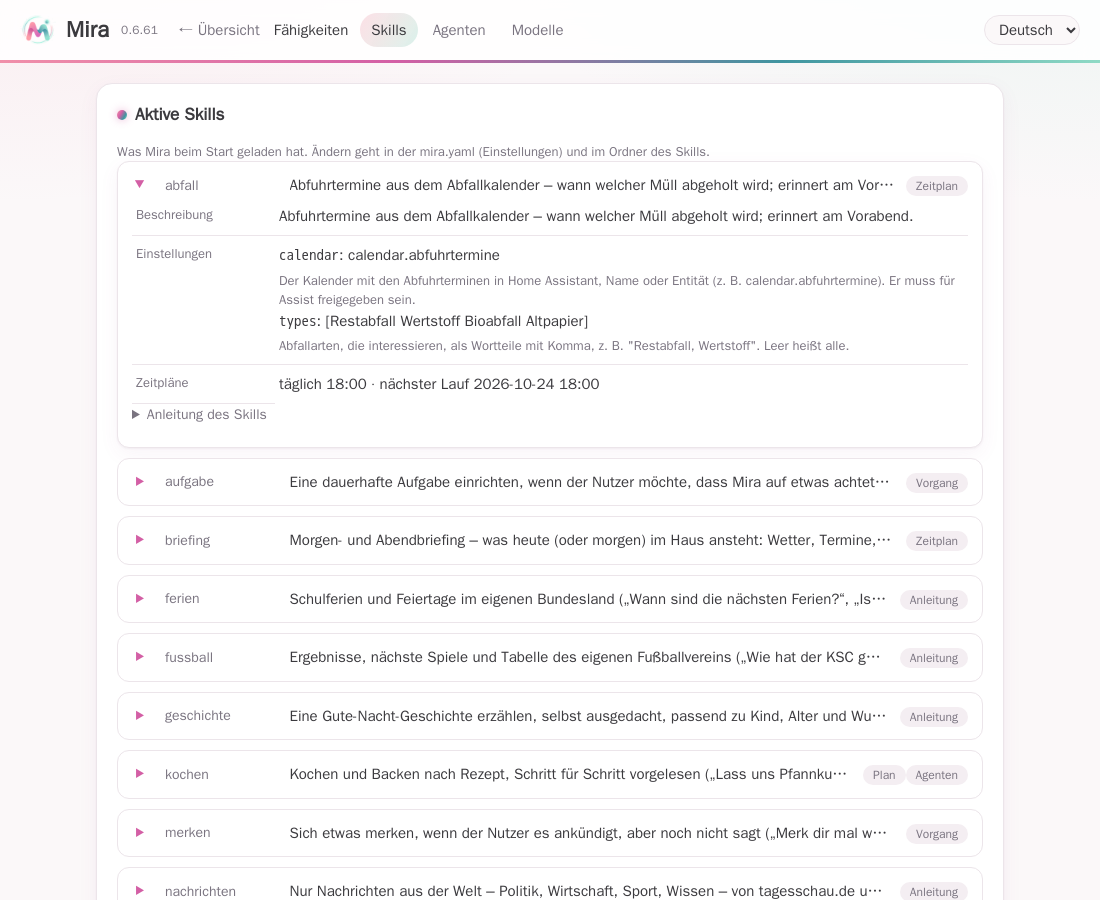
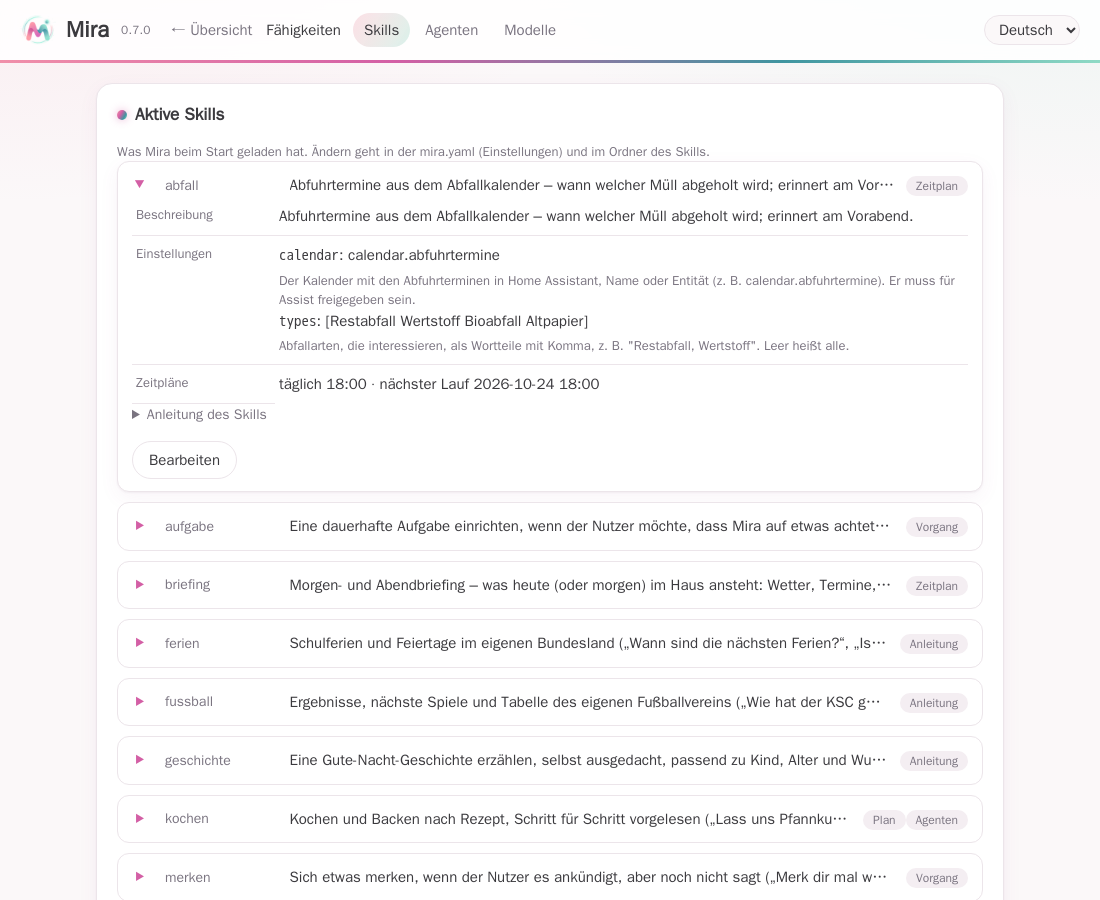
0.7.0: a model beside the integration's main; guide pictures with editing
mira.yaml may name models without main when the integration sets main up
(MO-02 relaxed): the other models load, and without the integration's
model Mira waits for the setup and says main is missing. The page's "New
model" now works for a setup made in Home Assistant, and refuses only
when there is no main anywhere. The hints on the Models and Skills pages
say that both can be changed there; the guide has new pictures with the
edit buttons and the edit dialog.

From this release on, versions follow semantic versioning: 0.7.0 brings
new features and a changed mira.yaml (skills as entries).

diff --git a/internal/ui/index.html b/internal/ui/index.html
@@ -406,7 +406,7 @@ const I18N = {
   "tab_skills": "Skills",
   "tab_models": "Modelle",
   "models_title": "Modelle",
-  "models_hint": "Die Sprachmodelle, die Mira nutzt, wie sie eingestellt sind und wer sie nimmt. Ändern geht in der mira.yaml unter models; das Hauptmodell kann auch aus der Einrichtung in Home Assistant kommen.",
+  "models_hint": "Die Sprachmodelle, die Mira nutzt, wie sie eingestellt sind und wer sie nimmt. Ändern geht hier mit „Bearbeiten“ oder in der mira.yaml unter models; das Hauptmodell kann auch aus der Einrichtung in Home Assistant kommen.",
   "mod_endpoint": "Adresse", "mod_model": "Modell beim Anbieter", "mod_token": "Token",
   "mod_token_set": "gesetzt", "mod_token_unset": "keiner",
   "mod_privacy": "Datenschutz", "mod_parallel": "Anfragen gleichzeitig", "mod_fallback": "Ersatz bei Fehlern",
@@ -477,7 +477,7 @@ const I18N = {
   "home_problems": n => n === 1 ? "1 Skill nicht gestartet" : `${n} Skills nicht gestartet`,
   "home_available": n => n === 1 ? "1 weiterer verfügbar" : `${n} weitere verfügbar`,
   "cat_active": "Aktive Skills",
-  "cat_skills_hint": "Was Mira beim Start geladen hat. Ändern geht in der mira.yaml (Einstellungen) und im Ordner des Skills.",
+  "cat_skills_hint": "Was Mira beim Start geladen hat. Ändern geht hier mit „Bearbeiten“, in der mira.yaml oder im Ordner des Skills.",
   "cat_problem": "Nicht gestartet",
   "cat_available": "Verfügbar",
   "cat_available_hint": "Diese Skills liegen im Skill-Ordner, sind aber nicht eingeschaltet. Einschalten: mit „Einschalten“ hier oder in der mira.yaml unter skills.",
@@ -790,7 +790,7 @@ const I18N = {
   "tab_skills": "Skills",
   "tab_models": "Models",
   "models_title": "Models",
-  "models_hint": "The language models Mira uses, how they are set and who takes them. Change them in mira.yaml under models; the main model can also come from the setup in Home Assistant.",
+  "models_hint": "The language models Mira uses, how they are set and who takes them. Change them here with “Edit” or in mira.yaml under models; the main model can also come from the setup in Home Assistant.",
   "mod_endpoint": "Address", "mod_model": "Model at the provider", "mod_token": "Token",
   "mod_token_set": "set", "mod_token_unset": "none",
   "mod_privacy": "Privacy", "mod_parallel": "Requests at once", "mod_fallback": "Fallback on errors",
@@ -861,7 +861,7 @@ const I18N = {
   "home_problems": n => n === 1 ? "1 skill not started" : `${n} skills not started`,
   "home_available": n => n === 1 ? "1 more available" : `${n} more available`,
   "cat_active": "Active skills",
-  "cat_skills_hint": "What Mira loaded at her start. Changes go into mira.yaml (settings) and the skill's folder.",
+  "cat_skills_hint": "What Mira loaded at her start. Change it here with “Edit”, in mira.yaml or in the skill's folder.",
   "cat_problem": "Not started",
   "cat_available": "Available",
   "cat_available_hint": "These skills are in the skill folder but not switched on. Switch one on with “Switch on” here or in mira.yaml under skills.",

diff --git a/internal/config/config.go b/internal/config/config.go
@@ -53,6 +53,9 @@ type Config struct {
 	WebSearch  WebSearch         `yaml:"web_search"`
 	Agents     Agents            `yaml:"agents"`
 	Telemetry  Telemetry         `yaml:"telemetry"`
+
+	// mainMissing: the file has models but not main (LacksMain).
+	mainMissing bool
 }
 
 // Agents are the settings of Mira's agents (docs/spec/agenten.md): next to
@@ -690,11 +693,26 @@ func LoadOptional(path string) (cfg Config, hasLLM bool, err error) {
 	if err != nil {
 		return Config{}, false, err
 	}
-	var top map[string]any
-	_ = yaml.Unmarshal(raw, &top)
-	_, hasLLM = top["models"]
-	return cfg, hasLLM, nil
+	_, hasMain := fileModels(raw)
+	return cfg, hasMain, nil
 }
+
+// fileModels says whether a config file has models, and whether main is
+// among them.
+func fileModels(raw []byte) (hasModels, hasMain bool) {
+	var top struct {
+		Models map[string]any `yaml:"models"`
+	}
+	if yaml.Unmarshal(raw, &top) != nil || top.Models == nil {
+		return false, false
+	}
+	_, hasMain = top.Models[MainModel]
+	return true, hasMain
+}
+
+// LacksMain says that the file names models but not main: main has to come
+// from the integration's setup (docs/spec/modelle.md, MO-02).
+func (c Config) LacksMain() bool { return c.mainMissing }
 
 func envOr(name, fallback string) string {
 	if v := os.Getenv(name); v != "" {
@@ -722,12 +740,15 @@ func Parse(raw []byte, lookup Lookup) (Config, error) {
 		return Config{}, err
 	}
 	cfg := Default()
-	// The file's models replace the default main, not add to it.
-	var top map[string]any
-	if yaml.Unmarshal(expanded, &top) == nil {
-		if _, ok := top["models"]; ok {
-			cfg.Models = nil
-		}
+	// The file's models replace the default main, not add to it. Models
+	// without main keep it as a stand-in: main then comes from the
+	// integration's setup (docs/spec/modelle.md, MO-02), and without that
+	// Mira waits for the setup.
+	switch hasModels, hasMain := fileModels(expanded); {
+	case hasMain:
+		cfg.Models = nil
+	case hasModels:
+		cfg.mainMissing = true
 	}
 	dec := yaml.NewDecoder(strings.NewReader(string(expanded)))
 	dec.KnownFields(true)

diff --git a/internal/config/config_test.go b/internal/config/config_test.go
@@ -2,6 +2,7 @@ package config
 
 import (
 	"os"
+	"path/filepath"
 	"strings"
 	"testing"
 	"time"
@@ -188,14 +189,20 @@ models:
 	}
 }
 
-// MO-02 Without main Mira does not load
-func TestMO02_WithoutMainMiraDoesNotLoad(t *testing.T) {
+// MO-02 Without main in the file, main comes from the integration
+func TestMO02_WithoutMainInTheFileMainComesFromTheIntegration(t *testing.T) {
 	// Given mira.yaml has models but none called main
 	// When Mira loads it
-	_, err := parseModels(t, "models:\n  smart: { endpoint: http://x, model: y, privacy: cloud }\n")
-	// Then loading fails, and the error says that main is needed
-	if err == nil || !strings.Contains(err.Error(), "models needs main") {
-		t.Errorf("err = %v", err)
+	cfg, err := parseModels(t, "models:\n  smart: { endpoint: http://x, model: y, privacy: cloud }\n")
+	// Then it loads with smart, and says that main has to come from the setup
+	if err != nil || !cfg.LacksMain() || cfg.Models["smart"].Model != "y" {
+		t.Errorf("err = %v, lacks main %v, models %v", err, cfg.LacksMain(), cfg.Models)
+	}
+	// And the file does not count as naming the model main
+	path := filepath.Join(t.TempDir(), "mira.yaml")
+	os.WriteFile(path, []byte("models:\n  smart: { endpoint: http://x, model: y, privacy: cloud }\n"), 0o644)
+	if _, hasMain, err := LoadOptional(path); err != nil || hasMain {
+		t.Errorf("has main %v, err %v", hasMain, err)
 	}
 }
 

diff --git a/cmd/mira/edit_test.go b/cmd/mira/edit_test.go
@@ -8,6 +8,7 @@ import (
 	"testing"
 
 	"github.com/miraassist/mira/internal/config"
+	"github.com/miraassist/mira/internal/setup"
 	"github.com/miraassist/mira/internal/ui"
 )
 
@@ -223,5 +224,26 @@ func TestBE09_MirasOwnSkillCanBeSwitchedOff(t *testing.T) {
 	}
 	if strings.Contains(read(t, path), "kochen") {
 		t.Error("an own skill that is on needs no line")
+	}
+}
+
+// MO-02 on the page: a further model beside the integration's main, with
+// no main in the file.
+func TestBE11_AModelBesideTheIntegrationsMain(t *testing.T) {
+	a, e, path := editApp(t)
+	ctx := context.Background()
+	os.WriteFile(path, []byte("# only agents here\nagents:\n  delegate: { model: main }\n"), 0o644)
+	// without the integration's model there is no main anywhere
+	if err := e.SaveModel(ctx, "smart", ui.ModelEdit{Endpoint: "https://e/v1", Model: "f", Privacy: "cloud"}); err == nil {
+		t.Error("a model was added with no main anywhere")
+	}
+	if err := setup.Save(ctx, a.store, "http://ha", "token", &setup.LLM{BaseURL: "https://api/v1", Model: "m", Kind: setup.KindCloud}); err != nil {
+		t.Fatal(err)
+	}
+	if err := e.SaveModel(ctx, "smart", ui.ModelEdit{Endpoint: "https://e/v1", Model: "f", Privacy: "cloud"}); err != nil {
+		t.Fatal(err)
+	}
+	if out := read(t, path); !strings.Contains(out, "smart:") || strings.Contains(out, "main:") {
+		t.Errorf("file:\n%s", out)
 	}
 }

diff --git a/cmd/mira/edit.go b/cmd/mira/edit.go
@@ -218,11 +218,10 @@ func (e *editor) SaveModel(ctx context.Context, name string, m ui.ModelEdit) err
 		secret = map[string]string{tokenVar: m.Token}
 	}
 	return e.change(secret, func(top *yaml.Node) error {
-		models := config.MapGet(top, "models")
-		if models == nil && newName != config.MainModel {
-			return errors.New("In der mira.yaml steht noch kein Abschnitt models mit main. Ein weiteres Modell braucht main in der Datei (das ist noch offen, siehe docs/spec/bearbeiten.md).")
+		if newName != config.MainModel && config.MapGet(config.MapGet(top, "models"), config.MainModel) == nil && !e.fromHA(ctx) {
+			return errors.New("main fehlt: Es steht weder in der mira.yaml noch kommt es aus der Einrichtung in Home Assistant. Richte zuerst main ein.")
 		}
-		models = config.MapChild(top, "models")
+		models := config.MapChild(top, "models")
 		if newName != name {
 			if config.MapGet(models, newName) != nil {
 				return fmt.Errorf("Ein Modell „%s“ gibt es schon.", newName)

diff --git a/cmd/mira/setupmode.go b/cmd/mira/setupmode.go
@@ -58,6 +58,11 @@ func prepare(ctx context.Context, path string) (prepared, error) {
 		return prepared{}, err
 	}
 	p.ready = setup.Ready(p.cfg, hasLLM, s)
+	if cfg.LacksMain() && s.LLM == nil {
+		// MO-02: main comes from the integration; until it is set up, Mira
+		// waits for the setup and says why.
+		slog.Warn("mira.yaml has models but not main, and the integration has set no model yet: Mira waits for the setup in Home Assistant (or add models.main to mira.yaml)")
+	}
 	p.hasModel = hasLLM || s.LLM != nil
 	if p.pairing {
 		p.open = s.Open

diff --git a/custom_components/mira/const.py b/custom_components/mira/const.py
@@ -4,7 +4,7 @@ DOMAIN = "mira"
 # The version of the code that runs: Home Assistant imports an integration
 # once, at start, so after files are replaced only a restart changes it.
 # Kept equal to manifest.json.
-VERSION = "0.6.61"
+VERSION = "0.7.0"
 
 CONF_PERSONA = "persona"
 # Mira's own web search, switched at the agent (docs/spec/websuche.md).

diff --git a/cmd/mira/main.go b/cmd/mira/main.go
@@ -24,7 +24,7 @@ import (
 // version is Mira's version: raised with every change that goes live, so
 // the web UI and /v1/health show at once which build runs. A release build
 // may still set it with -ldflags "-X main.version=...".
-var version = "0.6.61"
+var version = "0.7.0"
 
 func main() {
 	if err := run(); err != nil {

diff --git a/docs/spec/bearbeiten.md b/docs/spec/bearbeiten.md
@@ -1,6 +1,6 @@
 # Editing models, agents and skills on Mira's page
 
-Status 2026-10-24: built (not released). Scenarios: [bearbeiten.feature](bearbeiten.feature).
+Status 2026-10-24: built, released in 0.7.0. Scenarios: [bearbeiten.feature](bearbeiten.feature).
 
 ## Goal
 
@@ -95,12 +95,9 @@ nothing of this.
    `enabled` it is on, `enabled: false` switches it off and keeps its settings. Mira's own skills are on without an
    entry and can be switched off, for a replacement of one's own. The old `skills.enabled` is refused with a hint,
    as `llm` and `routing` were (no users to migrate yet).
+8. **A further model beside the integration's main** (2026-10-24): mira.yaml may name models without `main` when
+   the integration sets `main` up (MO-02 relaxed); without either, the page refuses and Mira waits for the setup.
 
 ## Open
 
 - Move the overlay of satellites, persons and notifier onto the same principle.
-- **A further model beside the integration's main:** mira.yaml with a `models` section must name main (MO-02,
-  modelle.md). When main comes from the integration and the file has no `models` yet, the page cannot add a model
-  without writing main into the file, which would make two places for main. Options: (A) MO-02 allows models without
-  main when the integration sets main up; (B) the page writes main into the file once, read only there afterwards;
-  (C) leave it: a further model needs main in the file, by hand. Until decided the page says so and writes nothing.

diff --git a/docs/spec/modelle.md b/docs/spec/modelle.md
@@ -10,7 +10,7 @@ place, from the setup form's kind in another, and from "main is the local one" i
 
 - **A model is a named entry** with an endpoint, a model, a token and a **privacy** qualifier (`local` or `cloud`).
   How many requests it takes at once is its own setting.
-- **`main` always exists.** An agent without a model takes `main`.
+- **`main` always exists.** An agent without a model takes `main`. It is in mira.yaml or comes from the integration's setup; a file with other models but no `main` takes it from the setup, and without that Mira waits for the setup (MO-02, changed 2026-10-24 for the page's editing).
 - **Every agent names its model**, Mira's own ones too; `routing` goes.
 - **A fallback** is configured by name, never implied.
 - **Privacy is a rule:** an agent or a skill can require a local model.
@@ -130,7 +130,7 @@ names its model, fallback, and a section "Commands" with Mira's command line (`r
 
 ## Decided
 
-1. A model has a name, an endpoint, a token (from the environment) and a privacy qualifier; `main` must exist.
+1. A model has a name, an endpoint, a token (from the environment) and a privacy qualifier; `main` must exist, in the file or from the integration's setup.
 2. An agent without a model takes `main`; a fallback is configured by name.
 3. `routing` goes; every agent names its model, Mira's own under `agents` in `mira.yaml`.
 4. `llm:` is a hard switch: an old config is refused with what to write instead.

diff --git a/docs/guide/de.md b/docs/guide/de.md
@@ -623,6 +623,8 @@ Die **Übersicht** zeigt vier Karten. Jede nennt kurz, was gerade los ist, und f
 - Bei Skills: einschalten, ausschalten und einstellen, bei einem Skill mit MCP-Server mit **Verbindung testen**. Bei eigenen Skills auch die Anleitung, die Agenten, den Vorgang und den MCP-Server; mitgelieferte Skills ersetzt ein Update, darum dort nur die Einstellungen.
 - Änderungen gelten nach einem Neustart; die Seite bietet dafür **Mira neu starten** an.
 
+![Ein Modell bearbeiten: der Token bleibt verborgen und landet nicht in der mira.yaml](img/mira-bearbeiten-de.png)
+
 Wer kein Admin ist, sieht nur **Pläne**, **Gedächtnis** und **Anleitung**. Damit Mira weiß, wessen Gedächtnis du bist, muss deine Person mit deinem HA-Benutzer verknüpft sein (Einstellungen → Personen).
 
 ![Benachrichtigung: Ruhezeit, Pausen, Eskalation](img/benachrichtigung-de.png)

diff --git a/docs/guide/en.md b/docs/guide/en.md
@@ -599,6 +599,8 @@ The **Overview** shows four cards. Each says briefly what is going on and leads 
 - Skills: switch on, switch off and set them up, with **Test connection** for a skill with an MCP server. For your own skills also the instructions, agents, thread and MCP server; an update replaces the bundled skills, so for those only the settings.
 - Changes hold after a restart; the page offers **Restart Mira** for it.
 
+![Editing a model: the token stays hidden and does not go into mira.yaml](img/mira-bearbeiten-en.png)
+
 Someone who is no admin sees only **Plans**, **Memory** and **Guide**. For Mira to know whose memory is yours, your person must be linked to your HA user (Settings → People).
 
 ![Notifications: quiet hours, pauses, escalation](img/benachrichtigung-en.png)
